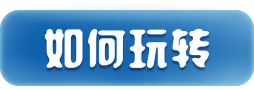
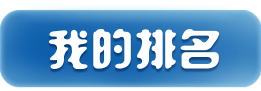
bug修复

diff --git a/public/js/main.js b/public/js/main.js
@@ -1,1 +1,1 @@
-function HomePage(){HomePage.me=this;var e=$(window).width();var t=$(document.body).height();var n=$(".page1 .robot-ori");var o=$(".page1 .deco-pre");console.log(n.attr("class"),n.width());console.log(n.attr("class"),n.height());console.log(o.attr("class"),o.height());console.log(o.attr("class"),o.height());var i=$(".page1 .hz");var r=.1;$.easeplus.addBlend("blend","cubicIn","backOut","sineOut");$.easeplus.addBackOut("customBackOut",4);i.velocity({scaleX:r,scaleY:r,opacity:0},{easing:"easeInBack",duration:700,delay:0});o.velocity({scaleX:r,scaleY:r,opacity:0},{duration:1,delay:0}).velocity({scaleX:1,scaleY:1,opacity:1},{easing:"easeIn",duration:300,delay:200});$(".layer_28").addClass("rot");$(".layer_27").addClass("rot2");n.css("display","block");n.css("opacity","0");var r=.1;n.velocity({scaleX:r,scaleY:r,opacity:0},{duration:1,delay:500}).velocity({scaleX:1,scaleY:1,opacity:1},{easing:"easeOutElastic",duration:1500,delay:0});o.css("display","block");JSKit.delay(.4,function(){o.addClass("deco")},this);$(".deco-pre div").each(function(e){var t=$(this);console.log(t);var n=e*.1;JSKit.delay(n,function(e){e.addClass("updown2")},this,[t])})}HomePage.prototype.constructor=HomePage;HomePage.me;HomePage.prototype.showRule=function(){$(".hdsm").show()};HomePage.prototype.hideRule=function(){$(".hdsm").hide()};function JSKit(){}JSKit.prototype.constructor=JSKit;JSKit.delay=function(e,t,n,o){if(t==undefined){console.error("错误")}var i=window.setTimeout(function(){if(o==null){t.call(n)}else{t.apply(n,o)}},e*1e3);return i};JSKit.loop=function(e,t,n){var o=window.setInterval(function(){t.call(n)},e);return o};JSKit.getMcInRoot=function(e,t){var n=e[t];e.removeChild(n);if(n.hasOwnProperty("gotoAndStop"))n.gotoAndStop(0);return n};JSKit.aCt=function(e){var t=new createjs.Container;e.addChild(t);return t};JSKit.aRec=function(e,t){var n=new createjs.Shape;n.graphics.beginFill(t).drawRect(0,0,660,960);e.addChild(n);return n};JSKit.getMc=function(e,t){return JSKit.getChild(e,t)};JSKit.getChild=function(e,t){if(e==null)console.err(t+"之前为空");if(t==null)console.err(t+"为空");if(t.indexOf(".")==-1){return e[t]}var n=t.split(".").length;var o=e;while(n>1){var i=t.substring(0,t.indexOf("."));t=t.substring(t.indexOf(".")+1,t.length);o=o[i];n=t.split(".").length}if(o==null)console.err(t+"之前a为空");if(t==null)console.err(t+"为空");return o[t]};JSKit.getText=function(e,t){var n=e[t];return n};JSKit.fun2=function(e,t,n){return function(){if(arguments.length>0){e.apply(t,arguments)}else{e.call(t)}}};JSKit.fn=function(e,t,n){var o=function(){if(arguments.length>0){if(n!=undefined){var o=[];for(var i=0;i<arguments.length;i++){o[i]=arguments[i]}o=o.concat(n);e.apply(t,o)}else{e.apply(t,arguments)}}else{if(n!=undefined){e.apply(t,n)}else{e.call(t)}}};if(JSKit._deleArr_==undefined){JSKit._deleArr_=[]}JSKit._deleArr_.push({fn:e,ref:t,ff:o});return o};JSKit.de=function(e,t){if(JSKit._deleArr_==undefined)return undefined;for(var n=JSKit._deleArr_.length-1;n>=0;n--){var o=JSKit._deleArr_[n];if(o["fn"]==e&&o["ref"]==t){return o["ff"]}}return undefined};JSKit.debugLayer=function(e){for(var t=0;t<e.numChildren;t++){}};JSKit.remove=function(e){if(e.parent!=undefined){e.parent.removeChild(e)}};function Main(){new HomePage;WXDevil.getMe().killWXdevil()}Main.prototype.constructor=Main;function init(){new Main}function WXDevil(){}WXDevil.prototype.constructor=WXDevil;WXDevil.me;WXDevil.getMe=function(){if(WXDevil.me==null){WXDevil.me=new WXDevil}return WXDevil.me};WXDevil.prototype.killWXdevil=function(){var e=this;if(UDevice.getMe().isMobile){document.addEventListener("touchmove",function(t){e.setXorYType22(t)});document.addEventListener("touchstart",function(t){e.setclientXorY22(t)});document.addEventListener("touchend",function(t){e.clearSthCCC(t)})}else{if(window.h5xo){document.onmousemove=function(t){e.setXorY(t)};document.onmousedown=function(t){e.h5ep(t)};document.onmouseup=function(t){e.clearSthBBB(t)}}else{document.onmousemove=function(t){e.setXorYType2(t)};document.onmousedown=function(t){e.setclientXorY(t)};document.onmouseup=function(t){e.clearSthAAA(t)}}}};WXDevil.prototype.setXorYType22=function(e){this.isTouched=true;e.preventDefault()};WXDevil.prototype.setclientXorY22=function(e){this.isTouched=true};WXDevil.prototype.setclientXorY=function(e){this.isTouched=true};WXDevil.prototype.setXorYType33=function(e){this.isTouched=true};WXDevil.prototype.clearSthCCC=function(e){this.isTouched=false};WXDevil.prototype.clearSthAAA=function(e){this.isTouched=false};WXDevil.prototype.clearSthBBB=function(e){this.isTouched=false};WXDevil.prototype.setXorYType2=function(e){};WXDevil.prototype.setXorY=function(e){};
+function HomePage(){HomePage.me=this;var e=$(window).width();var t=$(document.body).height();var i=$(".page1 .robot-ori");var n=$(".page1 .deco-pre");console.log(i.attr("class"),i.width());console.log(i.attr("class"),i.height());console.log(n.attr("class"),n.height());console.log(n.attr("class"),n.height());var r=$(".page1 .hz");var o=.1;$.easeplus.addBlend("blend","cubicIn","backOut","sineOut");$.easeplus.addBackOut("customBackOut",4);r.velocity({scaleX:o,scaleY:o,opacity:0},{easing:"easeInBack",duration:700,delay:0});n.velocity({scaleX:o,scaleY:o,opacity:0},{duration:1,delay:0}).velocity({scaleX:1,scaleY:1,opacity:1},{easing:"easeIn",duration:300,delay:200});$(".layer_28").addClass("rot");$(".layer_27").addClass("rot2");i.css("display","block");i.css("opacity","0");var o=.1;i.velocity({scaleX:o,scaleY:o,opacity:0},{duration:1,delay:500}).velocity({scaleX:1,scaleY:1,opacity:1},{easing:"easeOutElastic",duration:1500,delay:0});n.css("display","block");JSKit.delay(.4,function(){n.addClass("deco")},this);$(".deco-pre div").each(function(e){var t=$(this);console.log(t);var i=e*.1;JSKit.delay(i,function(e){e.addClass("updown2")},this,[t])})}HomePage.prototype.constructor=HomePage;HomePage.me;HomePage.prototype.showRule=function(){$(".hdsm").show()};HomePage.prototype.hideRule=function(){$(".hdsm").hide()};function JSKit(){}JSKit.prototype.constructor=JSKit;JSKit.delay=function(e,t,i,n){if(t==undefined){console.error("错误")}var r=window.setTimeout(function(){if(n==null){t.call(i)}else{t.apply(i,n)}},e*1e3);return r};JSKit.loop=function(e,t,i){var n=window.setInterval(function(){t.call(i)},e);return n};JSKit.getMcInRoot=function(e,t){var i=e[t];e.removeChild(i);if(i.hasOwnProperty("gotoAndStop"))i.gotoAndStop(0);return i};JSKit.aCt=function(e){var t=new createjs.Container;e.addChild(t);return t};JSKit.aRec=function(e,t){var i=new createjs.Shape;i.graphics.beginFill(t).drawRect(0,0,660,960);e.addChild(i);return i};JSKit.getMc=function(e,t){return JSKit.getChild(e,t)};JSKit.getChild=function(e,t){if(e==null)console.err(t+"之前为空");if(t==null)console.err(t+"为空");if(t.indexOf(".")==-1){return e[t]}var i=t.split(".").length;var n=e;while(i>1){var r=t.substring(0,t.indexOf("."));t=t.substring(t.indexOf(".")+1,t.length);n=n[r];i=t.split(".").length}if(n==null)console.err(t+"之前a为空");if(t==null)console.err(t+"为空");return n[t]};JSKit.getText=function(e,t){var i=e[t];return i};JSKit.fun2=function(e,t,i){return function(){if(arguments.length>0){e.apply(t,arguments)}else{e.call(t)}}};JSKit.fn=function(e,t,i){var n=function(){if(arguments.length>0){if(i!=undefined){var n=[];for(var r=0;r<arguments.length;r++){n[r]=arguments[r]}n=n.concat(i);e.apply(t,n)}else{e.apply(t,arguments)}}else{if(i!=undefined){e.apply(t,i)}else{e.call(t)}}};if(JSKit._deleArr_==undefined){JSKit._deleArr_=[]}JSKit._deleArr_.push({fn:e,ref:t,ff:n});return n};JSKit.de=function(e,t){if(JSKit._deleArr_==undefined)return undefined;for(var i=JSKit._deleArr_.length-1;i>=0;i--){var n=JSKit._deleArr_[i];if(n["fn"]==e&&n["ref"]==t){return n["ff"]}}return undefined};JSKit.debugLayer=function(e){for(var t=0;t<e.numChildren;t++){}};JSKit.remove=function(e){if(e.parent!=undefined){e.parent.removeChild(e)}};function Main(){new HomePage;WXDevil.getMe().killWXdevil()}Main.prototype.constructor=Main;function init(){new Main}function UDevice(){}UDevice.prototype.constructor=UDevice;UDevice.prototype.HasPerformance;UDevice.prototype.DevicePixelRatio;UDevice.prototype.ImgRatio;UDevice.prototype.BrowserID;UDevice.prototype.PlatformID;UDevice.prototype.isApple;UDevice.prototype.isMobile;UDevice.prototype.LoopInterval;UDevice.me;UDevice.getMe=function(){if(UDevice.me==null){UDevice.me=new UDevice;UDevice.me.init()}return UDevice.me};UDevice.prototype.init=function(){this.DevicePixelRatio=UDevice.getDevicePixelRatio();this.HasPerformance=UDevice.supportPerformance();this.ImgRatio=UDevice.getImgRatio();this.BrowserID=UDevice.CheckExplorerID();this.PlatformID=UDevice.getPlatformID();this.isApple=this.checkIsApple();this.isMobile=this.checkIsMobile();this.HasFastLoop=this.supportFastLoop()};UDevice.checkSupportAdvanceH5=function(){var e=document.createElement("canvas");e.h5ou=false;var t={h5qu:false,h5ru:false,set_opacity:true,zDistance:true,h5tu:false,h5uu:false,h5vu:true};var i=["experimental-webgl","webgl","webkit-3d","moz-webgl"];for(var n=0;n<i.length;n++){try{e.h5ou=e.getContext(i[n],t)}catch(e){}if(e.h5ou){break}}var r=e.h5ou!==false?true:false;e.h5ou=null;e=null;return r};UDevice.check_canvas2d=function(){var e=document.createElement("canvas");var t=e.getContext("2d");var i=typeof t=="object"?true:false;e=null;t=null;return i};UDevice.checkSupportBaseH5=function(){return UDevice.check_transform()&&UDevice.check_canvas2d()};UDevice.check_transform=function(){if(!Ucss.contain_css_attribute("transform webkitTransform mozTransform oTransform msTransform"))return false;if(!Ucss.isSupport_perspective()){return false}return true};UDevice.prototype.getBestLoopInterval=function(){switch(this.PlatformID){case 1:return 33;case 2:var e=this.getSthNum222();switch(e){case 0:return 50;case 1:return 40;case 2:return 33;case 3:return 25;default:return 33}return 5;case 3:return 33;case 4:return 33;default:return 33}};UDevice.prototype.getSthNum222=function(){var e=UDevice.getMe().screenSize.x<UDevice.getMe().screenSize.y?UDevice.getMe().screenSize.x:UDevice.getMe().screenSize.y;var t=UDevice.getMe().screenSize.x<UDevice.getMe().screenSize.y?UDevice.getMe().screenSize.y:UDevice.getMe().screenSize.x;if(e==320)return t==480?0:1;if(e==375)return 2;if(e==414)return 3;return-1};UDevice.prototype.supportFastLoop=function(){return window.requestAnimationFrame!==undefined?true:false};UDevice.prototype.isScreenScaleOK=function(){if(!UDevice.getMe().isMobile){return false}var e=3/4;var t=UDevice.getMe().screenSize.x/UDevice.getMe().screenSize.y;var i=Math.abs(e-t);if(i<.01){return true}return UDevice.getMe().screenSize.x>=580?true:false};UDevice.prototype.checkIsMobile=function(){return this.PlatformID>=0&&this.PlatformID<=4};UDevice.supportPerformance=function(){if(typeof window.h5qq!=="undefined"){if(typeof window.h5qq.now!=="undefined"){return true}}return false};UDevice.prototype.checkIsApple=function(){switch(this.PlatformID){case 2:return true;case 1:default:return false}};UDevice.getDevicePixelRatio=function(){return window.devicePixelRatio!==undefined?Math.max(window.devicePixelRatio,1):1};UDevice.getScreenSize=function(){if(window.screen==undefined){return UDevice.countScreenSize(window.innerWidth,window.innerHeight)}if(window.screen.width==undefined){return UDevice.countScreenSize(window.innerWidth,window.innerHeight)}return UDevice.countScreenSize(window.screen.width,window.screen.height)};UDevice.countScreenSize=function(e,t){};UDevice.getImgRatio=function(){return 1/UDevice.getDevicePixelRatio()};UDevice.CheckExplorerID=function(){if(navigator.userAgent.indexOf("Firefox")!=-1)return 2;else if(navigator.userAgent.indexOf("Chrome")!=-1)return 3;else if(navigator.userAgent.indexOf("Safari")!=-1)return 4;else if(navigator.userAgent.indexOf("MSIE")!=-1)return 1;else if(navigator.userAgent.indexOf("rv:")!=-1)return 1;else if(navigator.userAgent.indexOf("iPhone")!=-1)return 4;else if(navigator.userAgent.indexOf("iPod")!=-1)return 4;else if(navigator.userAgent.indexOf("iPad")!=-1)return 4;return 0};UDevice.getPlatformID=function(){if(navigator.userAgent.indexOf("Android")!=-1)return 1;else if(navigator.userAgent.indexOf("iPad")!=-1)return 2;else if(navigator.userAgent.indexOf("iPod")!=-1)return 2;else if(navigator.userAgent.indexOf("iPhone")!=-1)return 2;else if(navigator.userAgent.indexOf("webOS")!=-1)return 3;else if(navigator.userAgent.indexOf("mobile")!=-1)return 4;else if(navigator.userAgent.indexOf("Windows Phone")!=-1)return 4;else if(navigator.userAgent.indexOf("Windows Mobile")!=-1)return 4;else if(navigator.userAgent.indexOf("IEMobile")!=-1)return 4;else if(navigator.userAgent.indexOf("Nokia")!=-1)return 4;else if(navigator.appVersion.indexOf("Win")!=-1)return 5;else if(navigator.appVersion.indexOf("Mac")!=-1)return 6;else if(navigator.appVersion.indexOf("Linux")!=-1)return 7;else if(navigator.appVersion.indexOf("X11")!=-1)return 8;return 0};function WXDevil(){}WXDevil.prototype.constructor=WXDevil;WXDevil.me;WXDevil.getMe=function(){if(WXDevil.me==null){WXDevil.me=new WXDevil}return WXDevil.me};WXDevil.prototype.killWXdevil=function(){var e=this;if(UDevice.getMe().isMobile){document.addEventListener("touchmove",function(t){e.setXorYType22(t)});document.addEventListener("touchstart",function(t){e.setclientXorY22(t)});document.addEventListener("touchend",function(t){e.clearSthCCC(t)})}else{if(window.h5xo){document.onmousemove=function(t){e.setXorY(t)};document.onmousedown=function(t){e.h5ep(t)};document.onmouseup=function(t){e.clearSthBBB(t)}}else{document.onmousemove=function(t){e.setXorYType2(t)};document.onmousedown=function(t){e.setclientXorY(t)};document.onmouseup=function(t){e.clearSthAAA(t)}}}};WXDevil.prototype.setXorYType22=function(e){this.isTouched=true;e.preventDefault()};WXDevil.prototype.setclientXorY22=function(e){this.isTouched=true};WXDevil.prototype.setclientXorY=function(e){this.isTouched=true};WXDevil.prototype.setXorYType33=function(e){this.isTouched=true};WXDevil.prototype.clearSthCCC=function(e){this.isTouched=false};WXDevil.prototype.clearSthAAA=function(e){this.isTouched=false};WXDevil.prototype.clearSthBBB=function(e){this.isTouched=false};WXDevil.prototype.setXorYType2=function(e){};WXDevil.prototype.setXorY=function(e){};

diff --git a/public/css/1-homepage.wj.css b/public/css/1-homepage.wj.css
@@ -2,26 +2,16 @@ body,html{position: fixed;overflow:hidden;
 	width:100%;height:100%;margin:0px;padding:0px;background-color:#79acd1;}
 .abs { position: absolute; }
 .ptimg { width: 100%; }
-.bg{ width: 100%; height: 100%; left: 0%; top: 0%;background:url('../1-homepage/bg.png') no-repeat 0 0;}
+.bg{ width: 100%; height: 100%; left: 0%; top: 0%;background:url('../1-homepage/bg.jpg') no-repeat 0 0;}
 .bg img{max-width: 750px;}
 .page1{width: 104.93%; height: 100%; left: 0%; top: 0%;}
-
 .page1 .robot-ori{width: 100%; height: 57.71%; left: 0%; top: 31.09%;}
 .page1 .robot-ori .slzndx_kb_3{ width: 100%; height: 100%; left: 0%; top: 0%;}
 .page1 .robot-ori .slzndx_kb_3 img{max-width: 787px;}
-
 .page1 .robot-ori .layer_8{ width: 70.14%; height: 72.27%; left: 22.74%; top: 16.81%;}
 .page1 .robot-ori .layer_8 img{max-width: 552px;}
-
-
-
 .page1 .robot {	transition:all 0.5s 0s ease-out;}
 .page1 .robot div{	transition:all 0.5s 0s ease-out;}
-
-
-
-
-
 .page1 .hz{ width: 48.54%; height: 53.23%; left: 25.41%; top: 44.69%;}
 .page1 .hz img{max-width: 382px;}
 .page1 .bt2{ width: 76.24%; height: 16.58%; left: 9.53%; top: 20.56%;}
@@ -39,15 +29,11 @@ body,html{position: fixed;overflow:hidden;
 .page1 .header .layer_31 img{max-width: 39px;}
 .page1 .header .layer_32{ width: 5.41%; height: 12.15%; left: 37.01%; top: 4.21%;}
 .page1 .header .layer_32 img{max-width: 26px;}
-
-
 .button{width: 71.92%; height: 7.46%; left: 11.69%; top: 83.33%;}
 .page1 .button .button_1{ width: 44.88%; height: 100%; left: 0%; top: 0%;}
 .page1 .button .button_1 img{max-width: 254px;}
 .page1 .button .button_2{ width: 44.88%; height: 100%; left: 55.12%; top: 0%;}
 .page1 .button .button_2 img{max-width: 254px;}
-
-
 /*animation wj 2017-07-12*/
 .page1 .robot .center-point{
 	left:50%;
@@ -64,7 +50,6 @@ body,html{position: fixed;overflow:hidden;
     0%{-webkit-transform: rotate(0deg);	} 
     100%{-webkit-transform: rotate(360deg);	}
 }
-
 .rot2{
 	/*transform-origin:50% 45%;*/
 	animation:rot2 5.4s infinite linear;
@@ -76,7 +61,6 @@ body,html{position: fixed;overflow:hidden;
     0%{-webkit-transform: rotate(0deg);	} 
     100%{-webkit-transform: rotate(-360deg);	}
 }
-
 .updown{
 	animation:updown 4s infinite ease-in-out;
 	/*
@@ -133,8 +117,6 @@ body,html{position: fixed;overflow:hidden;
     75%{-webkit-transform: translate(-3px);	}
     100%{-webkit-transform: translate(0);	}
 }*/
-
-
 .bg{ width: 100%; height: 100%; left: 0%; top: 0%;}
 .bg img{max-width: 750px;}
 .robot{width: 100%; height: 57.71%; left: 0%; top: 31.09%;}
@@ -144,7 +126,6 @@ body,html{position: fixed;overflow:hidden;
 .page1 .robot .layer_27 img{max-width: 786px;}
 .page1 .robot-ori .layer_8{ width: 42.19%; height: 72.27%; left: 31.26%; top: 16.81%;}
 .page1 .robot-ori .layer_8 img{max-width: 332px;}
-
 .deco-pre{width: 80.69%; height: 37.48%; left: 5.08%; top: 39.22%;}
 .page1 .deco-pre .layer_21{ width: 5.35%; height: 3.54%;left: 50%; top: 50%;}
 .page1 .deco-pre .layer_21 img{max-width: 34px;}
@@ -176,8 +157,6 @@ body,html{position: fixed;overflow:hidden;
 .page1 .deco-pre .slzndx img{max-width: 60px;}
 .page1 .deco-pre .layer_29{ width: 13.23%; height: 15.93%; left: 50%; top: 50%;}
 .page1 .deco-pre .layer_29 img{max-width: 84px;}
-
-
 .deco{width: 80.69%; height: 37.48%; left: 5.08%; top: 39.22%;}
 .page1 .deco .layer_21{ width: 5.35%; height: 3.54%; left: 66.14%; top: 96.46%;}
 .page1 .deco .layer_21 img{max-width: 34px;}
@@ -209,7 +188,6 @@ body,html{position: fixed;overflow:hidden;
 .page1 .deco .slzndx img{max-width: 60px;}
 .page1 .deco .layer_29{ width: 13.23%; height: 15.93%; left: 15.28%; top: 34.29%;}
 .page1 .deco .layer_29 img{max-width: 84px;}
-
 .page1 .hz{ width: 48.54%; height: 53.23%; left: 25.41%; top: 44.69%;}
 .page1 .hz img{max-width: 382px;}
 .page1 .bt2{ width: 76.24%; height: 16.58%; left: 9.53%; top: 20.56%;}
@@ -232,16 +210,62 @@ body,html{position: fixed;overflow:hidden;
 .page1 .button .button_1 img{max-width: 254px;}
 .page1 .button .button_2{ width: 44.88%; height: 100%; left: 55.12%; top: 0%;}
 .page1 .button .button_2 img{max-width: 254px;}
-
-
-/*.hdsm{width: 95.3%; height: auto; left: 0%; top: 50%; transform:translate(0,-50%);}
-.page1 .hdsm .slzndx{ width: 100%; height: auto; left: 0%; top: 0%;}
-.page1 .hdsm .slzndx img{max-width: 750px;}
-.page1 .hdsm .button_2_kb{ width: 33.87%; height: 7.46%; left: 34.27%; top: 83.33%;}
-.page1 .hdsm .button_2_kb img{max-width: 254px;}*/
-
-
-.hdsm{width: 95.3%; height: auto; left: 0%; top: 50%; transform:translate(0,-50%);}
+.page1{width: 100%; height: 100%; left: 0%; top: 0%;}
+.robot{width: 100%; height: 57.71%; left: 0%; top: 31.09%;}
+.page1 .robot .layer_30{ width: 100%; height: 98.56%; left: 0%; top: 1.44%;}
+.page1 .robot .layer_30 img{max-width: 750px;}
+.page1 .robot .layer_31{ width: 99.87%; height: 96.84%; left: 0.13%; top: 0%;}
+.page1 .robot .layer_31 img{max-width: 749px;}
+.page1 .robot .layer_32{ width: 44.27%; height: 72.27%; left: 32.8%; top: 16.81%;}
+.page1 .robot .layer_32 img{max-width: 332px;}
+.deco{width: 84.67%; height: 37.48%; left: 5.33%; top: 39.22%;}
+.page1 .deco .layer_33{ width: 5.35%; height: 3.54%; left: 66.14%; top: 96.46%;}
+.page1 .deco .layer_33 img{max-width: 34px;}
+.page1 .deco .layer_34{ width: 16.54%; height: 32.08%; left: 83.46%; top: 22.35%;}
+.page1 .deco .layer_34 img{max-width: 105px;}
+.page1 .deco .layer_21_kb{ width: 17.8%; height: 14.82%; left: 2.36%; top: 7.3%;}
+.page1 .deco .layer_21_kb img{max-width: 113px;}
+.page1 .deco .layer_35{ width: 4.72%; height: 6.64%; left: 23.15%; top: 79.65%;}
+.page1 .deco .layer_35 img{max-width: 30px;}
+.page1 .deco .layer_22_kb_2{ width: 2.83%; height: 3.54%; left: 79.69%; top: 46.68%;}
+.page1 .deco .layer_22_kb_2 img{max-width: 18px;}
+.page1 .deco .layer_22_kb{ width: 4.25%; height: 4.42%; left: 7.4%; top: 59.07%;}
+.page1 .deco .layer_22_kb img{max-width: 27px;}
+.page1 .deco .layer_36{ width: 4.41%; height: 7.52%; left: 66.14%; top: 21.46%;}
+.page1 .deco .layer_36 img{max-width: 28px;}
+.page1 .deco .layer_25_kb{ width: 3.15%; height: 3.76%; left: 29.76%; top: 48.23%;}
+.page1 .deco .layer_25_kb img{max-width: 20px;}
+.page1 .deco .layer_37{ width: 20.47%; height: 32.96%; left: 18.74%; top: 0%;}
+.page1 .deco .layer_37 img{max-width: 130px;}
+.page1 .deco .layer_38{ width: 25.51%; height: 19.69%; left: 0%; top: 76.55%;}
+.page1 .deco .layer_38 img{max-width: 162px;}
+.page1 .deco .layer_39{ width: 7.4%; height: 10.18%; left: 92.6%; top: 63.5%;}
+.page1 .deco .layer_39 img{max-width: 47px;}
+.page1 .deco .slzndx{ width: 6.93%; height: 9.73%; left: 18.58%; top: 19.69%;}
+.page1 .deco .slzndx img{max-width: 44px;}
+.page1 .deco .slzndx{ width: 9.45%; height: 15.27%; left: 80.16%; top: 9.96%;}
+.page1 .deco .slzndx img{max-width: 60px;}
+.page1 .deco .slzndx{ width: 9.45%; height: 12.17%; left: 25.51%; top: 59.07%;}
+.page1 .deco .slzndx img{max-width: 60px;}
+.page1 .deco .layer_40{ width: 13.23%; height: 15.93%; left: 15.28%; top: 34.29%;}
+.page1 .deco .layer_40 img{max-width: 84px;}
+.page1 .hz{ width: 50.93%; height: 53.23%; left: 26.67%; top: 44.69%;}
+.page1 .hz img{max-width: 382px;}
+.header{width: 80.13%; height: 29.6%; left: 10.27%; top: 7.55%;}
+.page1 .header .layer_41{ width: 94.84%; height: 27.17%; left: 5.16%; top: 72.83%;}
+.page1 .header .layer_41 img{max-width: 570px;}
+.page1 .header .slzndx1{ width: 99.83%; height: 62.18%; left: 0%; top: 0%;}
+.page1 .header .slzndx1 img{max-width: 600px;}
+.page1 .logo{ width: 26.67%; height: 5.31%; left: 2.53%; top: 1.41%;}
+.page1 .logo img{max-width: 200px;}
+.button{width: 77.6%; height: 7.55%; left: 11.87%; top: 87.06%;}
+.page1 .button .button_1{ width: 44.85%; height: 100%; left: 55.15%; top: 0%;}
+.page1 .button .button_1 img{max-width: 261px;}
+.page1 .button .button_2{ width: 44.85%; height: 100%; left: 0%; top: 0%;}
+.page1 .button .button_2 img{max-width: 261px;}
+.page1 .button_3{ width: 16.8%; height: 2.99%; left: 81.2%; top: 2.07%;}
+.page1 .button_3 img{max-width: 126px;}
+.hdsm{width: 100%; height: auto; left: 0%; top: 50%; transform:translate(0,-50%);}
 .page1 .hdsm .slzndx{ width: 100%; height: auto; left: 0%; top: 0%;}
 .page1 .hdsm .slzndx img{max-width: 750px;}
 .page1 .hdsm .button_2_kb{ width: 33.87%; height: 7.46%; left: 34.27%; top: 83.33%;}

diff --git a/resources/views/home.blade.php b/resources/views/home.blade.php
@@ -42,36 +42,39 @@
         <div class="abs layer_24" ><img class="ptimg" src="1-homepage/page1_deco_layer_24.png" /></div>
         <div class="abs layer_16" ><img class="ptimg" src="1-homepage/page1_deco_layer_16.png" /></div>
         <div class="abs slzndx" ><img class="ptimg" src="1-homepage/page1_deco_slzndx.png" /></div>
-        <div class="abs slzndx" ><img class="ptimg" src="1-homepage/page1_deco_slzndx.png" /></div>
-        <div class="abs slzndx" ><img class="ptimg" src="1-homepage/page1_deco_slzndx.png" /></div>
         <div class="abs layer_29" ><img class="ptimg" src="1-homepage/page1_deco_layer_29.png" /></div>
     </div>
     <div class="abs robot-ori"  style='display:none;'>
-        <div class="abs layer_28" ><img class="ptimg" src="1-homepage/page1_robot_layer_28.png" /></div>
-        <div class="abs layer_27" ><img class="ptimg" src="1-homepage/page1_robot_layer_27.png" /></div>
-        <div class="abs layer_8" ><img class="ptimg" src="1-homepage/page1_robot_layer_8.png" /></div>
+        <div class="abs layer_28" ><img class="ptimg" src="1-homepage/page1_robot_layer_30.png" /></div>
+        <div class="abs layer_27" ><img class="ptimg" src="1-homepage/page1_robot_layer_31.png" /></div>
+        <div class="abs layer_8" ><img class="ptimg" src="1-homepage/page1_robot_layer_32.png" /></div>
     </div>
     <div class="abs hz" ><img class="ptimg" src="1-homepage/page1_hz.png" /></div>
-    <div class="abs bt2" ><img class="ptimg" src="1-homepage/page1_bt2.png" /></div>
     <div class="abs header" >
-        <div class="abs layer_30" ><img class="ptimg" src="1-homepage/page1_header_layer_30.png" /></div>
-        <div class="abs layer_35" ><img class="ptimg" src="1-homepage/page1_header_layer_35.png" /></div>
-        <div class="abs layer_34" ><img class="ptimg" src="1-homepage/page1_header_layer_34.png" /></div>
-        <div class="abs layer_32" ><img class="ptimg" src="1-homepage/page1_header_layer_32.png" /></div>
-        <div class="abs layer_33" ><img class="ptimg" src="1-homepage/page1_header_layer_33.png" /></div>
-        <div class="abs layer_31" ><img class="ptimg" src="1-homepage/page1_header_layer_31.png" /></div>
+        <div class="abs layer_41" ><img class="ptimg" src="1-homepage/page1_header_layer_41.png" /></div>
+        <div class="abs slzndx1" ><img class="ptimg" src="1-homepage/page1_header_slzndx1.png" /></div>
     </div>
+    <div class="abs logo" ><img class="ptimg" src="1-homepage/page1_logo.png" /></div>
     <div class="abs button" >
-        <a href="javascript:void(0);" onclick="HomePage.me.showRule();" class="abs button_1" ><img class="ptimg" src="1-homepage/page1_button_button_1.png" /></a>
+        <a href="/my" onclick="" class="abs button_1" ><img class="ptimg" src="1-homepage/page1_button_button_1.png" /></a>
         <a href="/index" onclick="" class="abs button_2" ><img class="ptimg" src="1-homepage/page1_button_button_2.png" /></a>
     </div>
-    <div class="abs hdsm" style="display:none;" >
+    <a href="javascript:void(0);" onclick="HomePage.me.showRule();"  class="abs button_3" ><img class="ptimg" src="1-homepage/page1_button_3.png" /></a>
+    <div class="abs hdsm" style="display:none;">
         <img class="ptimg" src="1-homepage/page1_hdsm_slzndx.png" />
         <a href="javascript:void(0);" onclick="HomePage.me.hideRule();" class="abs button_2_kb" ><img class="ptimg" src="1-homepage/page1_hdsm_button_2_kb.png" /></a>
     </div>
 </div>
+
 <div style="display:none;">
     <script src="https://s11.cnzz.com/z_stat.php?id=1262847468&web_id=1262847468" language="JavaScript"></script>
 </div>
+<script>
+    $().ready(function () {
+        _czc.push(["_trackEvent","abilix-H5","loading"]);
+        _czc.push(["_trackEvent","abilix-H5","p-1"]);
+        _czc.push(["_trackEvent","abilix-H5","p-2"]);
+    })
+</script>
 </body>
 </html>

diff --git a/resources/views/layouts/app.blade.php b/resources/views/layouts/app.blade.php
@@ -34,8 +34,8 @@
         @if(env('APP_ENV') != 'local')
         wx.config({!! $js->config(array('onMenuShareTimeline','onMenuShareAppMessage','onMenuShareQQ', 'onMenuShareWeibo','chooseImage','uploadImage','downloadImage'), false) !!});
         wxData = {
-            title: '能力风暴教育机器人积木系列', // 分享标题
-            desc: '能力风暴教育机器人积木系列', // 分享描述
+            title: '暑期小心！前方有一大波奖金礼物……至高10000元', // 分享标题
+            desc: '内含10000元现金大奖，手快有手慢无', // 分享描述
             link: '{{url("/")}}', // 分享链接，该链接域名或路径必须与当前页面对应的公众号JS安全域名一致
             imgUrl: '{{asset("images/share.jpg")}}' // 分享图标
         };

diff --git a/routes/web.php b/routes/web.php
@@ -35,7 +35,19 @@ Route::group(['middleware' => ['web', 'wechat.oauth']], function () {
                 'id' => $id,
             ]);
         }
-
+    });
+    Route::get('/my/{id?}', function (Request $request, $id = null) {
+        $works = \App\Work::orderBy('vote_num', 'DESC')
+            ->where('user_id', session('user_id'))
+            ->paginate(20);
+        if ($request->ajax()) {
+            return $works;
+        } else {
+            return view('list', [
+                'works' => $works,
+                'id' => $id,
+            ]);
+        }
     });
     Route::get('/work/{id}', function ($id) {
         $work = \App\Work::find($id);
